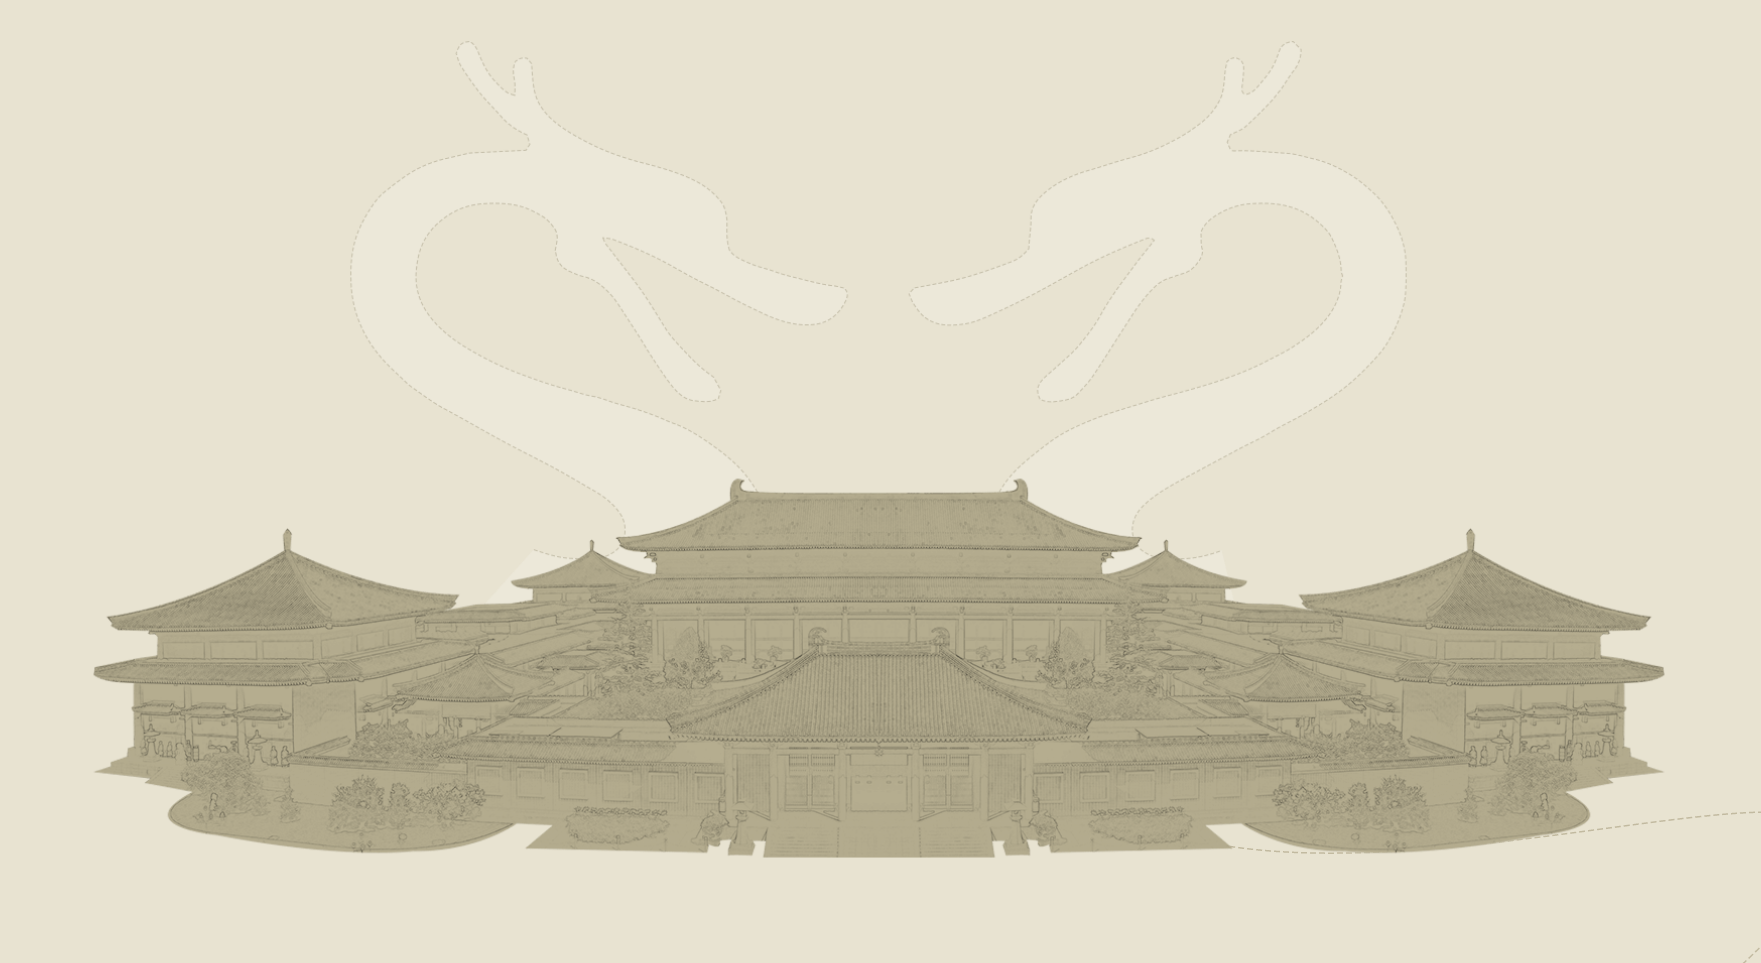
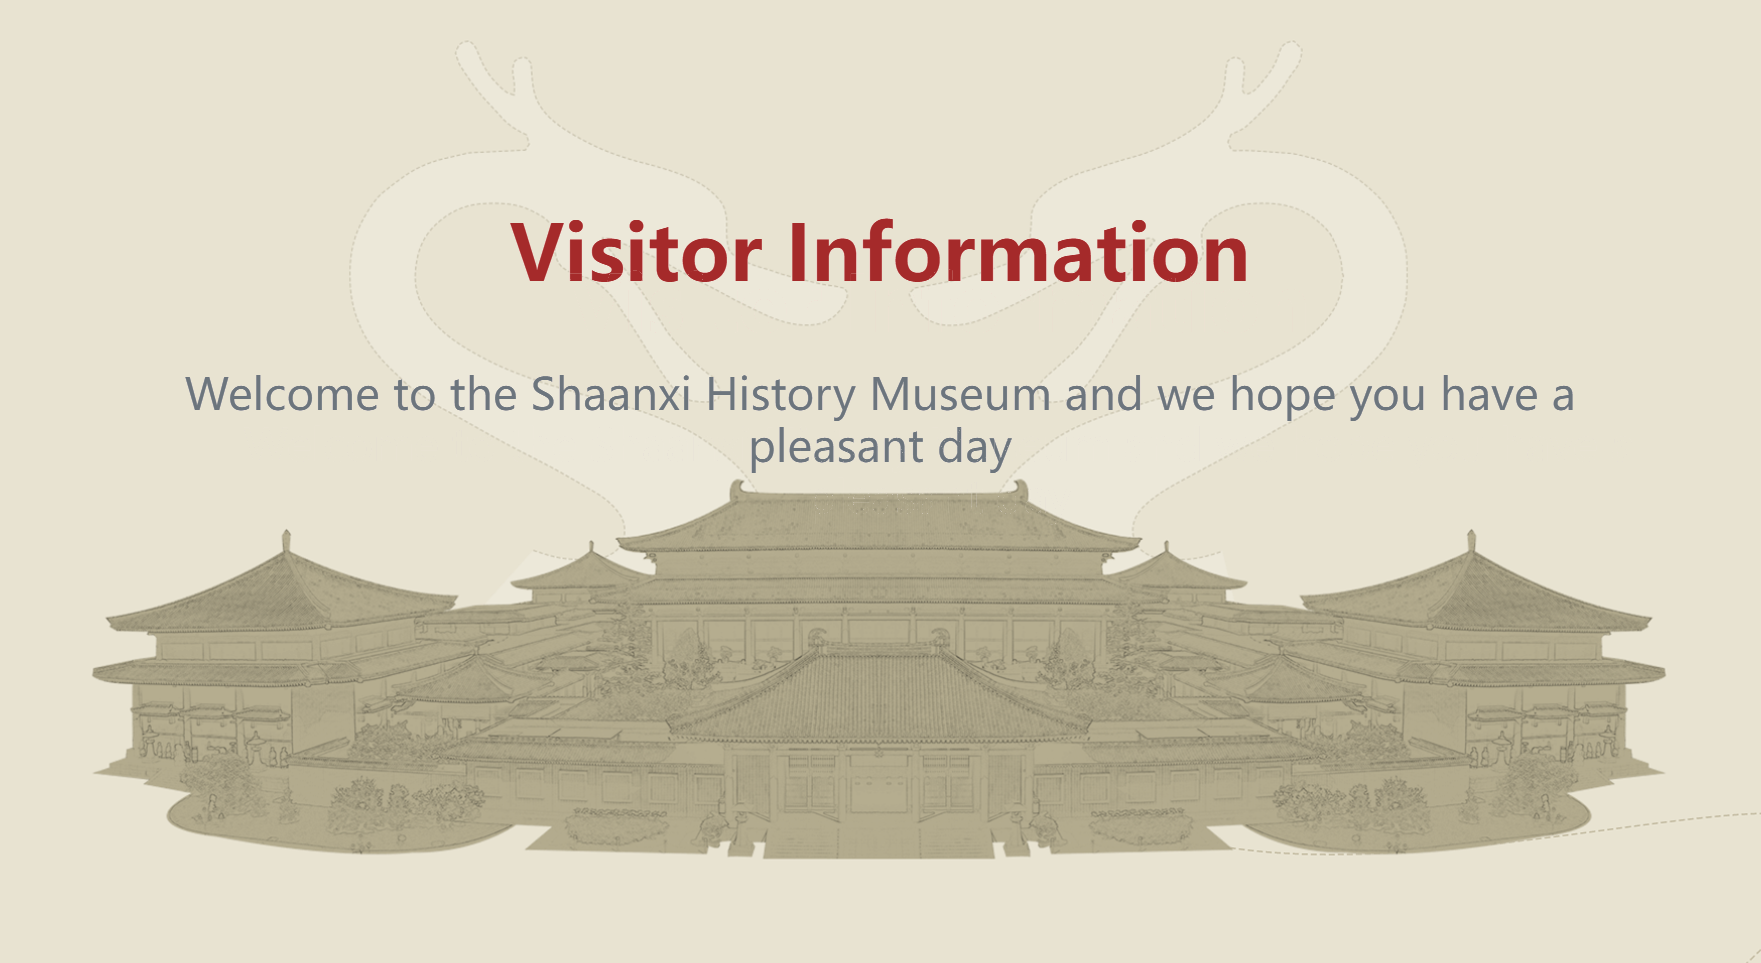
终版

Changed region(s): [[0.0937, 0.3738, 0.9057, 0.4984], [0.2811, 0.2181, 0.7183, 0.3115], [0.8745, 0.8411, 0.9057, 0.8723]]

diff --git a/src/Visiting.html b/src/Visiting.html
@@ -45,19 +45,6 @@
 
           <div class="col-lg-8 col-xl-6 " id="services">
             <div class="text-center">
-              <h1 class="fw-bolder" style="color: brown;font-weight:bold;">Visitor Information</h1>
-              <div class="row mt-3"></div>
-              <div class="row mt-3"></div>
-              <h2 class="lead fw-normal text-muted mb-5 reveal active">Welcome to the Shaanxi History Museum and we hope
-                you have a pleasant day
-              </h2>
-              <div class="row mt-3"></div>
-              <div class="row mt-3"></div>
-              <div class="row mt-3"></div>
-              <div class="row mt-3"></div>
-              <div class="row mt-3"></div>
-              <div class="row mt-3"></div>
-
             </div>
           </div>
         </div>
@@ -238,11 +225,11 @@
                   <li class="nav-item" role="presentation">
                     <button class="nav-link active" id="home-tab" data-bs-toggle="tab" data-bs-target="#home" type="button" role="tab" aria-controls="home" aria-selected="true">Shaanxi History Museum Station</button>
                   </li>
-                  <a class="nav-link disabled">--------</a>
+                  <a class="nav-link disabled">----</a>
                   <li class="nav-item" role="presentation">
                     <button class="nav-link" id="profile-tab" data-bs-toggle="tab" data-bs-target="#profile" type="button" role="tab" aria-controls="profile" aria-selected="false">Underground lines</button>
                   </li>
-                  <a class="nav-link disabled">--------</a>
+                  <a class="nav-link disabled">----</a>
                   <li class="nav-item" role="presentation">
 
                     <button class="nav-link" id="contact-tab" data-bs-toggle="tab" data-bs-target="#contact" type="button" role="tab" aria-controls="contact" aria-selected="false">Airport bus route</button>
